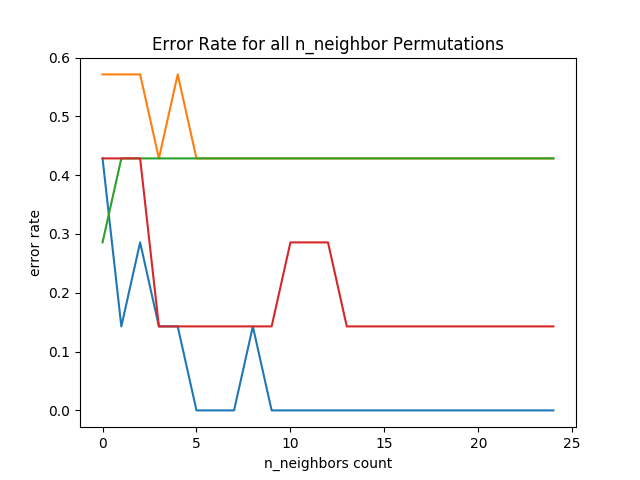
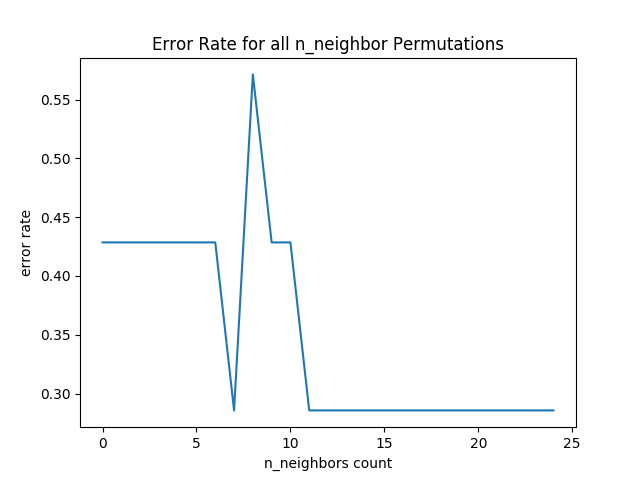
report and code work

diff --git a/project-code/run.py b/project-code/run.py
@@ -1,3 +1,4 @@
+import os
 import pandas
 import requests
 import numpy as np
@@ -7,7 +8,6 @@ from sklearn.neighbors import KNeighborsClassifier
 from sklearn.metrics import classification_report, confusion_matrix
 
 url = "http://pages.iu.edu/~jsaxberg/pres.csv"
-x_train_g, y_train_g, x_text_g, y_test_g = "", "", "", ""
 
 def get_data():
     req = requests.get(url, allow_redirects=True)
@@ -28,35 +28,33 @@ def run_custom(neighbors, hlt, mil, edu, tax, wmr, glb, gnr, inf, mnr, img):
     
     return("Your candidate with data: %s %s %s %s %s %s %s %s %s %s would %s a hypothetical presidential election according to this algorithm." % (hlt, mil, edu, tax, wmr, glb, gnr, inf, mnr, img, "WIN" if y_pred==[1] else "LOSE"))
 
-def run_test(new):
+def run_test():
     data = get_data()
 
     x = data.iloc[:, 5:15].values
     y = data.iloc[:, -1].values
     
-    if(x_train_g is "" or new == 1):
-        x_train_g, x_test_g, y_train_g, y_test_g = train_test_split(x, y, test_size=0.2)
+    x_train, x_test, y_train, y_test = train_test_split(x, y, test_size=0.2)
 
-    classifier = KNeighborsClassifier(n_neighbors=find_best(False, x_train_g, x_test_g, y_train_g, y_test_g))
-    classifier.fit(x_train_g, y_train_g)
+    classifier = KNeighborsClassifier(n_neighbors=find_best(False, x_train, x_test, y_train, y_test))
+    classifier.fit(x_train, y_train)
 
-    y_pred = classifier.predict(x_test_g)
+    y_pred = classifier.predict(x_test)
 
-    matrix = str(confusion_matrix(y_test_g, y_pred))
-    report = str(classification_report(y_test_g, y_pred))
+    matrix = str(confusion_matrix(y_test, y_pred))
+    report = str(classification_report(y_test, y_pred))
 
     return("Confusion Matrix: %s Classification Report: %s" % (matrix, report))
 
-def neighbors(new):
+def neighbors():
     data = get_data()
 
     x = data.iloc[:, 5:15].values
     y = data.iloc[:, -1].values
 
-    if(x_test_g is "" or new == 1):
-        x_train_g, x_test_g, y_train_g, y_test_g = train_test_split(x, y, test_size=0.2)
+    x_train, x_test, y_train, y_test = train_test_split(x, y, test_size=0.2)
 
-    best_num = find_best(True, x_train_g, x_test_g, y_train_g, y_test_g)
+    best_num = find_best(True, x_train, x_test, y_train, y_test)
 
     return("The best n_neighbors argument to use is: %s" % str(best_num))
 
@@ -79,7 +77,9 @@ def find_best(graph, x_train, x_test, y_train, y_test):
             os.remove('data/imgs/neighbors.png')
 
         plt.savefig('data/imgs/neighbors.png')
+        
+        plt.close()
 
-        return("Graph and n_neighbors can be found at endpoint: /data/graph")
+        return(str(error.index(min(error)) + 1) + ". Graph can be found at endpoint /data/show/graph")
     else:
-        return(5)
+        return(str(error.index(min(error)) + 1))

diff --git a/project-report/report.md b/project-report/report.md
@@ -83,9 +83,9 @@ END POINTS:
   - Downloads the csv data file, named as the argument provided for file.
 - /data/show/graph
   - Shows the graph generated from /run/neighbors
-- /run/neighbors/\<new\>
+- /run/neighbors
   - Runs an analysis that determines the best argument for n_neighbors.
-- /run/test/\<new\>
+- /run/test
   - Runs an analysis with testing and training sets, also exports a graph.
 - /run/custom/\<neighbors\>/\<healthcare\>/\<military\>/\<education\>/\<tax wealthy\>/\<womens rights\>/\<globalism\>/\<gun rights\>/\<infrastructure\>/\<minority rights\>/\<immigration\>
   - Allows user to perform classification with custom arguments.
@@ -202,7 +202,7 @@ paths:
         "200":
           description: "Run custom analysis"
           schema: {}
-  /run/test/<new>:
+  /run/test:
     get:
       tags:
         - RUN_TEST
@@ -214,7 +214,7 @@ paths:
         "200":
           description: "Run test analysis"
           schema: {}
-  /run/neighbors/<new>:
+  /run/neighbors:
     get:
       tags:
         - RUN_NEIGHBORS
